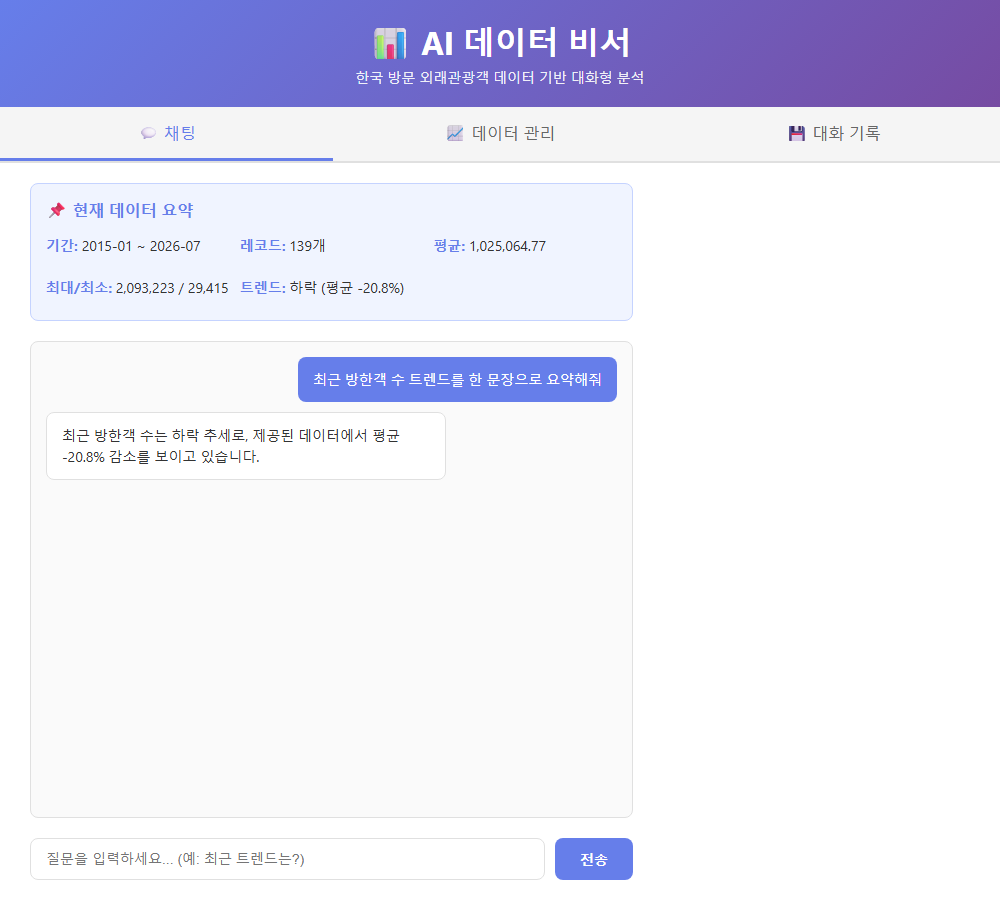
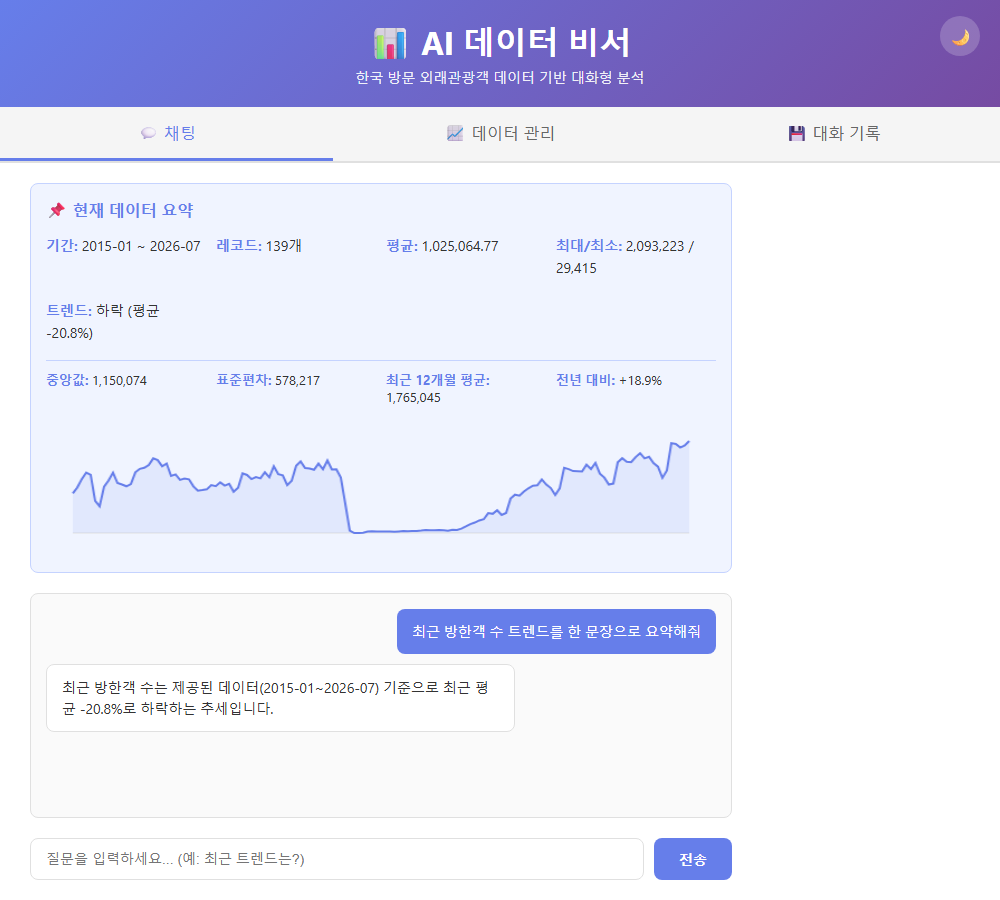
docs: 보너스 과제 4종 반영 — 스크린샷 갱신, 다크모드 스샷 추가, 체크리스트 정리
01~03 스크린샷을 보너스 기능(통계·그래프) 포함 화면으로 다시 캡처하고,
다크 모드 스크린샷(04)을 추가한다. README와 요구사항 체크리스트에
보너스 4/5 완료, Function Calling 항목만 미착수임을 명시한다.

diff --git a/scripts/take_screenshots.py b/scripts/take_screenshots.py
@@ -1,8 +1,9 @@
-"""제출용 스크린샷 3종을 배포된 사이트에서 직접 캡처한다.
+"""제출용 스크린샷을 배포된 사이트에서 직접 캡처한다.
 
-1. 채팅 화면 (질문+답변+데이터 요약)
-2. 데이터 관리 화면 (데이터 추가 동작 확인)
+1. 채팅 화면 (질문+답변+데이터 요약+추가 통계+추세 그래프)
+2. 데이터 관리 화면 (데이터 추가 동작 확인 + CSV/JSON 내보내기 버튼)
 3. 대화 기록 화면 (대화 목록+불러오기)
+4. 다크 모드 (보너스: 테마 토글)
 """
 import time
 from pathlib import Path
@@ -60,6 +61,14 @@ def run():
             page.wait_for_timeout(1000)
         page.screenshot(path=str(OUT_DIR / "03_conversations.png"), full_page=True)
         print("saved 03_conversations.png")
+
+        # 4) 다크 모드(보너스): 새로고침으로 최신 데이터 반영 후 테마 토글 -> 캡처
+        page.reload(wait_until="networkidle")
+        page.wait_for_timeout(1500)
+        page.click("#theme-toggle")
+        page.wait_for_timeout(500)
+        page.screenshot(path=str(OUT_DIR / "04_dark_mode.png"), full_page=True)
+        print("saved 04_dark_mode.png")
 
         browser.close()
 

diff --git a/README.md b/README.md
@@ -23,8 +23,9 @@
 
 ✅ 필수 요구사항(1~10번) 전부 완료 및 배포 사이트에서 실사용 검증 — FastAPI 백엔드(Render)·
 프론트엔드(Vercel)·Firestore 139건 적재·AI 채팅(코디세이 공개 API) 정상 작동, 채팅/대화기록의
-숨어있던 버그 2건 발견·수정 — 2026-09-11
-⏳ 보너스 과제(Function Calling, 통계 추가지표, 그래프, 내보내기, 다크모드)는 미착수
+숨어있던 버그 2건 발견·수정
+✅ 보너스 과제 4/5 완료 — 추가 통계 지표, 추세 그래프, CSV/JSON 내보내기, 다크 모드
+⏳ Function Calling + MCP/GPT Actions 연동은 미착수 — 2026-09-11
 
 ## 프로젝트 구조
 
@@ -162,6 +163,19 @@ vercel --prod
 
 배포된 서비스를 직접 조작해 캡처했다 (`scripts/take_screenshots.py`).
 
-| 채팅 (질문+답변+데이터 요약) | 데이터 관리 (추가 동작) | 대화 기록 (목록+불러오기) |
-|---|---|---|
-| ![chat](docs/screenshots/01_chat_summary.png) | ![data](docs/screenshots/02_data_management.png) | ![conversations](docs/screenshots/03_conversations.png) |
+| 채팅 (질문+답변+데이터 요약+추가 통계+추세 그래프) | 데이터 관리 (추가 동작+내보내기) | 대화 기록 (목록+불러오기) | 다크 모드 |
+|---|---|---|---|
+| ![chat](docs/screenshots/01_chat_summary.png) | ![data](docs/screenshots/02_data_management.png) | ![conversations](docs/screenshots/03_conversations.png) | ![dark](docs/screenshots/04_dark_mode.png) |
+
+## 보너스 과제 (인사이트·UX 고도화)
+
+| 항목 | 구현 |
+|---|---|
+| 추가 지표 | `GET /api/data/statistics` — 중앙값·표준편차·최근 12개월 평균·전년 대비 증감률 |
+| 시각화 그래프 | 채팅 탭 요약 아래에 바닐라 Canvas로 139개월 추세 라인 그래프(외부 차트 라이브러리 없이 구현) |
+| 데이터 내보내기 | 데이터 관리 탭에서 CSV/JSON 다운로드 버튼 |
+| 다크 모드 | 헤더 토글, `localStorage`에 저장해 새로고침 후에도 유지 |
+
+**AI 도구 호출(Function Calling) + MCP/GPT Actions 연동은 미착수.** 코디세이 공개 API가
+tool calling을 지원하는지 문서화되어 있지 않고, MCP Server는 별도 배포가 필요해
+이 과제 범위를 크게 벗어난다고 판단해 보류했다.
